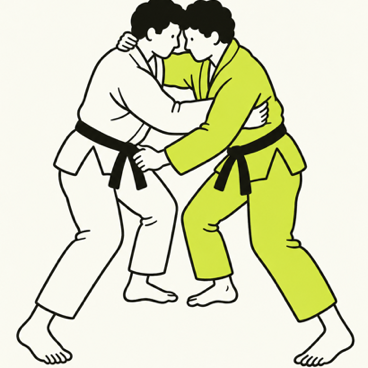
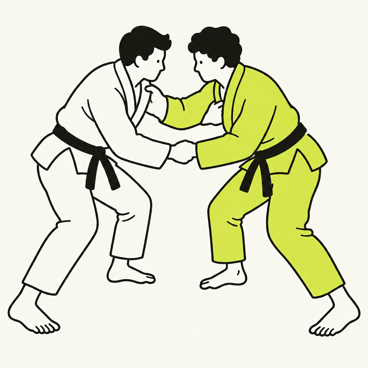
포지션 그림: 스탠딩 = 테이크다운, 클린치 = 기존 스탠딩 그림, 딥 하프 새로 (사진 참고)

diff --git a/DECISIONS.md b/DECISIONS.md
@@ -122,5 +122,5 @@
 
 ## D-75 (2026-10-29) 같은 포지션 카드끼리 기준 좌우 맞추기 → **포지션(과 그 안의 갈래)마다 기준 자세를 하나 정하고, 반대 좌우로 적힌 카드는 통째로 뒤집어 맞춘다. 위 · 아래 짝 카드(사이드 위 ↔ 사이드 탈출 등)는 같은 장면을 서로 반대편에서 본 그림으로 맞춘다.** 기준 102줄(예: 데라히바 = 내 왼다리로 상대 오른다리 바깥 훅 · 하프가드 아래 = 상대 오른다리를 감고 내 왼팔 언더훅, 내 오른쪽 어깨 · 엉덩이가 바닥, 니 쉴드는 내 왼쪽 무릎 · 패스 = 상대 오른쪽으로). 62개를 고쳤고, 기술 때문에 좌우가 정해지는 47개는 그대로 둠. "○쪽으로 돌아 눕는다"처럼 어느 쪽이 바닥인지 헷갈리는 말은 쓰지 않고 바닥에 닿는 쪽을 적는다. 하프가드 묶음은 처음 결과(왼쪽이 바닥 + 오른쪽 무릎 니 쉴드)가 왼팔 언더훅과 맞지 않아 Claude 가 기준을 정해 다시 쓰게 함 / 본인 요청("계속 진행") / 영향: data/techniques.json, migration
 
-## D-76 (2026-10-29) 포지션 정리 · 겹치는 카드 합치기 → **정리 페이지 5 · 6번을 반영한다.** ① 포지션 나누기(본인 선택 "딥 하프 + 스탠딩 둘로"): 하프가드에서 딥 하프 9개를 떼어 '딥 하프가드', 스탠딩에서 클린치 · 가드 풀링 · 서서 백 26개를 떼어 '클린치 · 가드 풀링'(스탠딩은 '스탠딩 · 테이크다운') → 포지션 21개. 새 그림 2장은 Higgsfield GPT Image 2.5 로 기존 그림을 스타일 참고로 올려 만듦(클린치 2장 · 딥 하프 4장, 6크레딧), Claude 가 자세가 맞는 것을 골라 `public/positions/clinch.png` · `deep-half.png` ② 자리 옮기기 14개(대조 두 번이 함께 가리킨 것: 패스 → 클로즈드 가드 7 · 하프가드 3 · 버터플라이 1 · 오픈 가드 3) ③ '서브미션 자세' 이름을 '서브미션 걸린 뒤 (…)'로 ④ 남북 칸에 남북 초크 · 남북 → 사이드 · 남북 백 테이크 3개 추가 ⑤ 같은 포지션에서 세팅 과정이 거의 같은 카드 44개를 남길 카드로 합침 — 지운 카드의 이름 · 다른 이름은 남긴 카드의 다른 이름으로 옮겨 검색은 그대로 되고, 기록 · 숙련도 · 제안 · 알림도 옮긴다(지금 연결된 기록은 0개였음). D-46 의 '기술은 지우지 않는다'는 이 합치기에 한해 예외 / 본인 요청 / 영향: positions · techniques(574개), FLOW 지도 · 기술 고르기 21칸, data/techniques.json
+## D-76 (2026-10-29) 포지션 정리 · 겹치는 카드 합치기 → **정리 페이지 5 · 6번을 반영한다.** ① 포지션 나누기(본인 선택 "딥 하프 + 스탠딩 둘로"): 하프가드에서 딥 하프 9개를 떼어 '딥 하프가드', 스탠딩에서 클린치 · 가드 풀링 · 서서 백 26개를 떼어 '클린치 · 가드 풀링'(스탠딩은 '스탠딩 · 테이크다운') → 포지션 21개. 새 그림 2장은 Higgsfield GPT Image 2.5 로 기존 그림을 스타일 참고로 올려 만듦(클린치 2장 · 딥 하프 4장, 6크레딧), Claude 가 자세가 맞는 것을 골라 `public/positions/clinch.png` · `deep-half.png` → 이어서 본인 요청으로 바꿈(2026-10-30): 기존 스탠딩 그림(깃 · 소매 맞잡기)은 클린치 칸으로, 스탠딩 칸은 본인이 보낸 테이크다운 사진, 딥 하프 칸은 본인이 보낸 딥 하프 사진을 Higgsfield 에 자세 참고로 올려(얼굴은 닮지 않게 · 글자 · 로고 · 배경 빼기, 사진은 본인 계정에 남음) 새로 만듦(4장, 2크레딧) ② 자리 옮기기 14개(대조 두 번이 함께 가리킨 것: 패스 → 클로즈드 가드 7 · 하프가드 3 · 버터플라이 1 · 오픈 가드 3) ③ '서브미션 자세' 이름을 '서브미션 걸린 뒤 (…)'로 ④ 남북 칸에 남북 초크 · 남북 → 사이드 · 남북 백 테이크 3개 추가 ⑤ 같은 포지션에서 세팅 과정이 거의 같은 카드 44개를 남길 카드로 합침 — 지운 카드의 이름 · 다른 이름은 남긴 카드의 다른 이름으로 옮겨 검색은 그대로 되고, 기록 · 숙련도 · 제안 · 알림도 옮긴다(지금 연결된 기록은 0개였음). D-46 의 '기술은 지우지 않는다'는 이 합치기에 한해 예외 / 본인 요청 / 영향: positions · techniques(574개), FLOW 지도 · 기술 고르기 21칸, data/techniques.json
 
